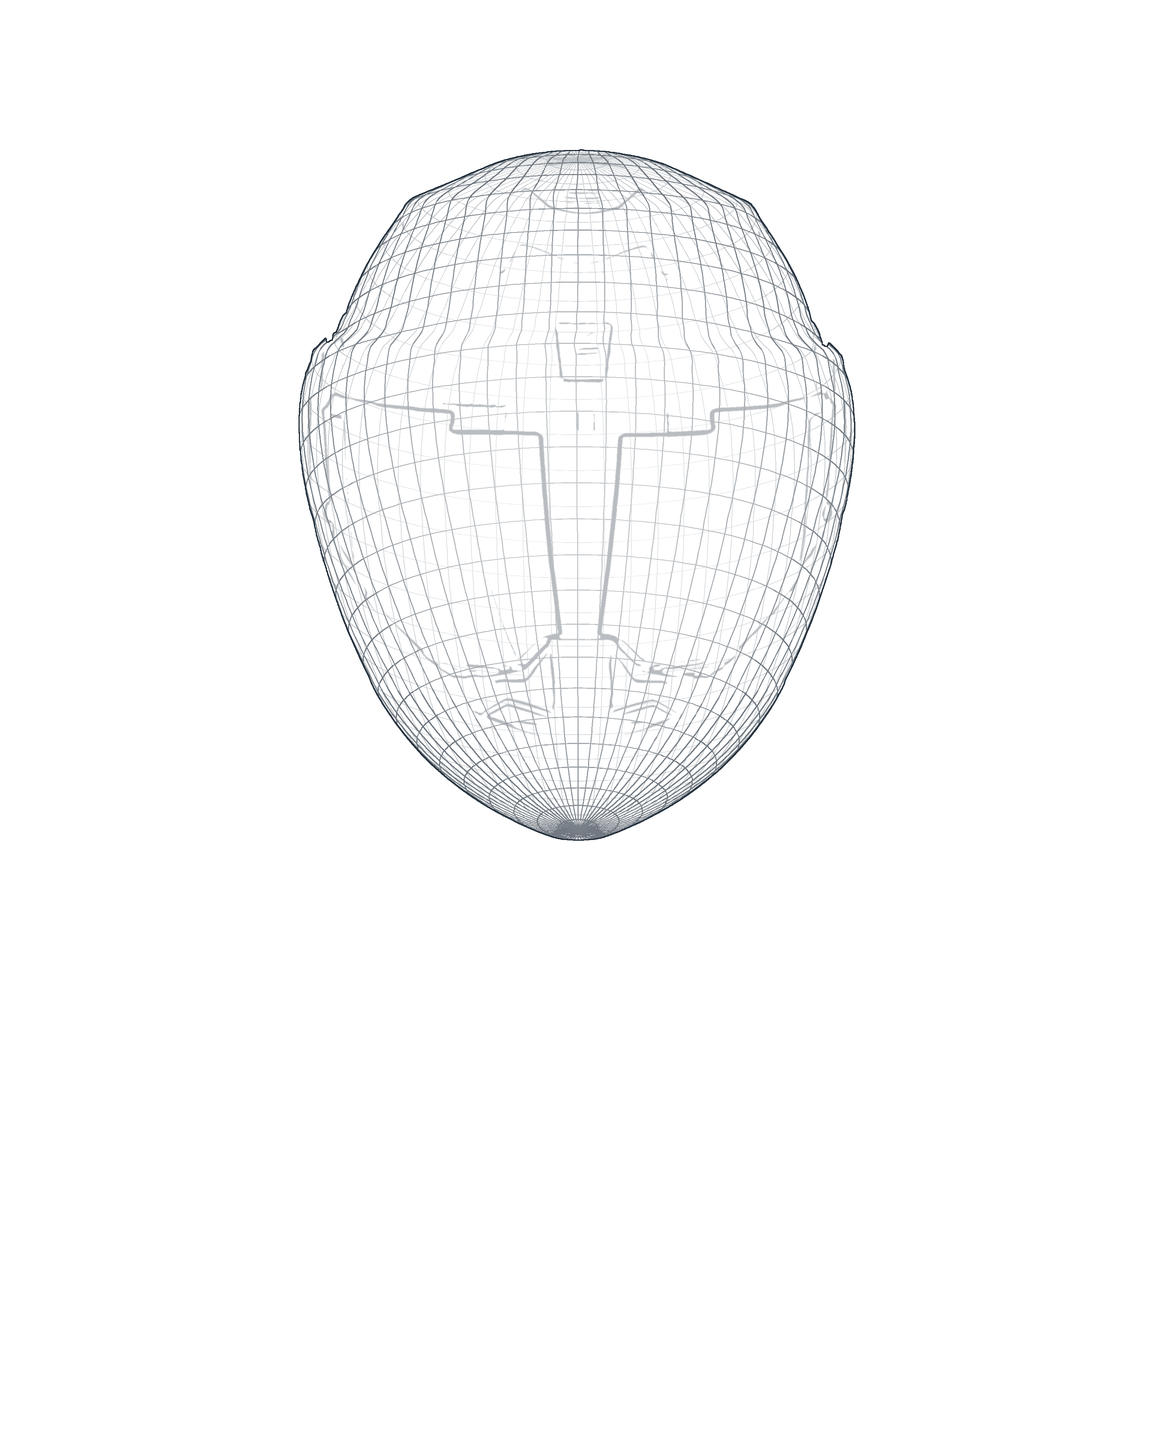
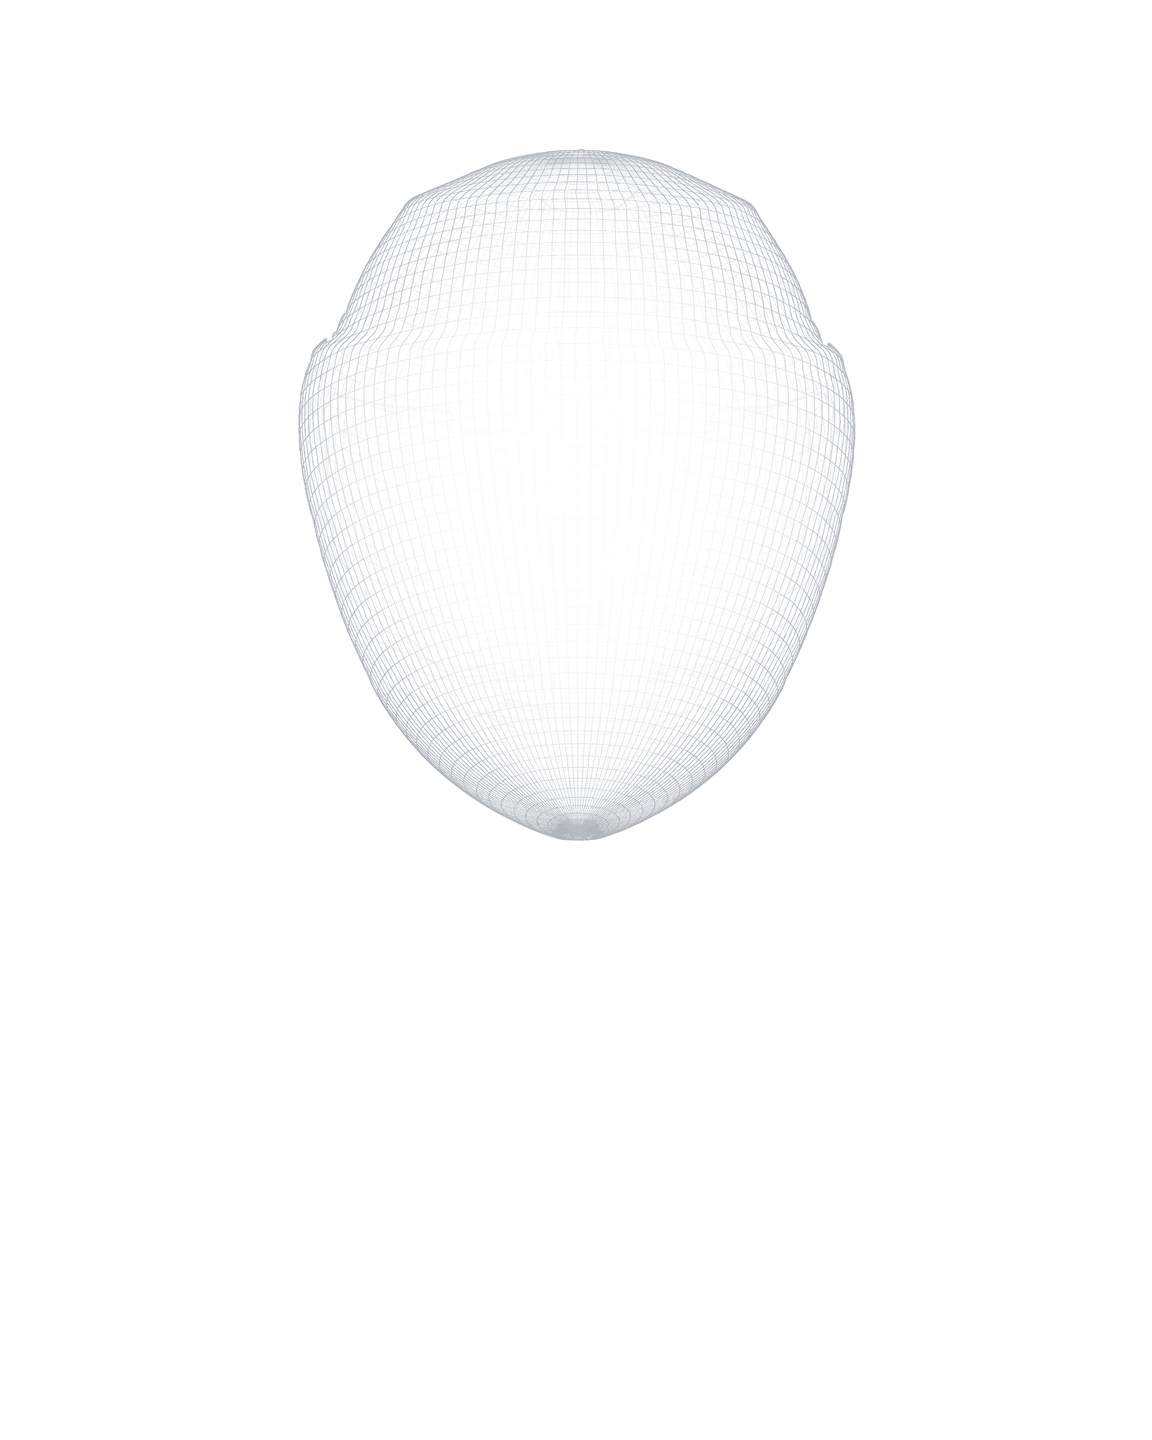
/soon: softer, finer helmet mesh, almost absent over the face
Claude-Session: https://claude.ai/code/session_01V45JEpctEtrRHTA6XWkAau

Changed region(s): [[0.25, 0.0938, 0.75, 0.5938], [0.4062, 0.3438, 0.4375, 0.375]]

diff --git a/soon/index.html b/soon/index.html
@@ -248,7 +248,7 @@ html:not([lang=ar]) .msg-t{line-height:.98}
   .social{gap:5svh;padding-top:4svh}
 }
 /* blueprint mesh of the helmet: a soft band travels down it, top to bottom */
-.stage .mesh{opacity:.62;--m:linear-gradient(180deg,rgba(0,0,0,.1) 0,rgba(0,0,0,.1) 15%,#000 21%,#000 23%,rgba(0,0,0,.1) 31%,rgba(0,0,0,.1) 100%);
+.stage .mesh{opacity:.5;--m:linear-gradient(180deg,rgba(0,0,0,.22) 0,rgba(0,0,0,.22) 14%,#000 21%,#000 23%,rgba(0,0,0,.22) 32%,rgba(0,0,0,.22) 100%);
   -webkit-mask-image:var(--m);mask-image:var(--m);-webkit-mask-size:100% 300%;mask-size:100% 300%;-webkit-mask-repeat:no-repeat;mask-repeat:no-repeat;
   -webkit-mask-position:0 35%;mask-position:0 35%;animation:scan 4.6s cubic-bezier(.45,0,.55,1) infinite}
 @keyframes scan{0%{-webkit-mask-position:0 35%;mask-position:0 35%}80%,100%{-webkit-mask-position:0 -7%;mask-position:0 -7%}}
